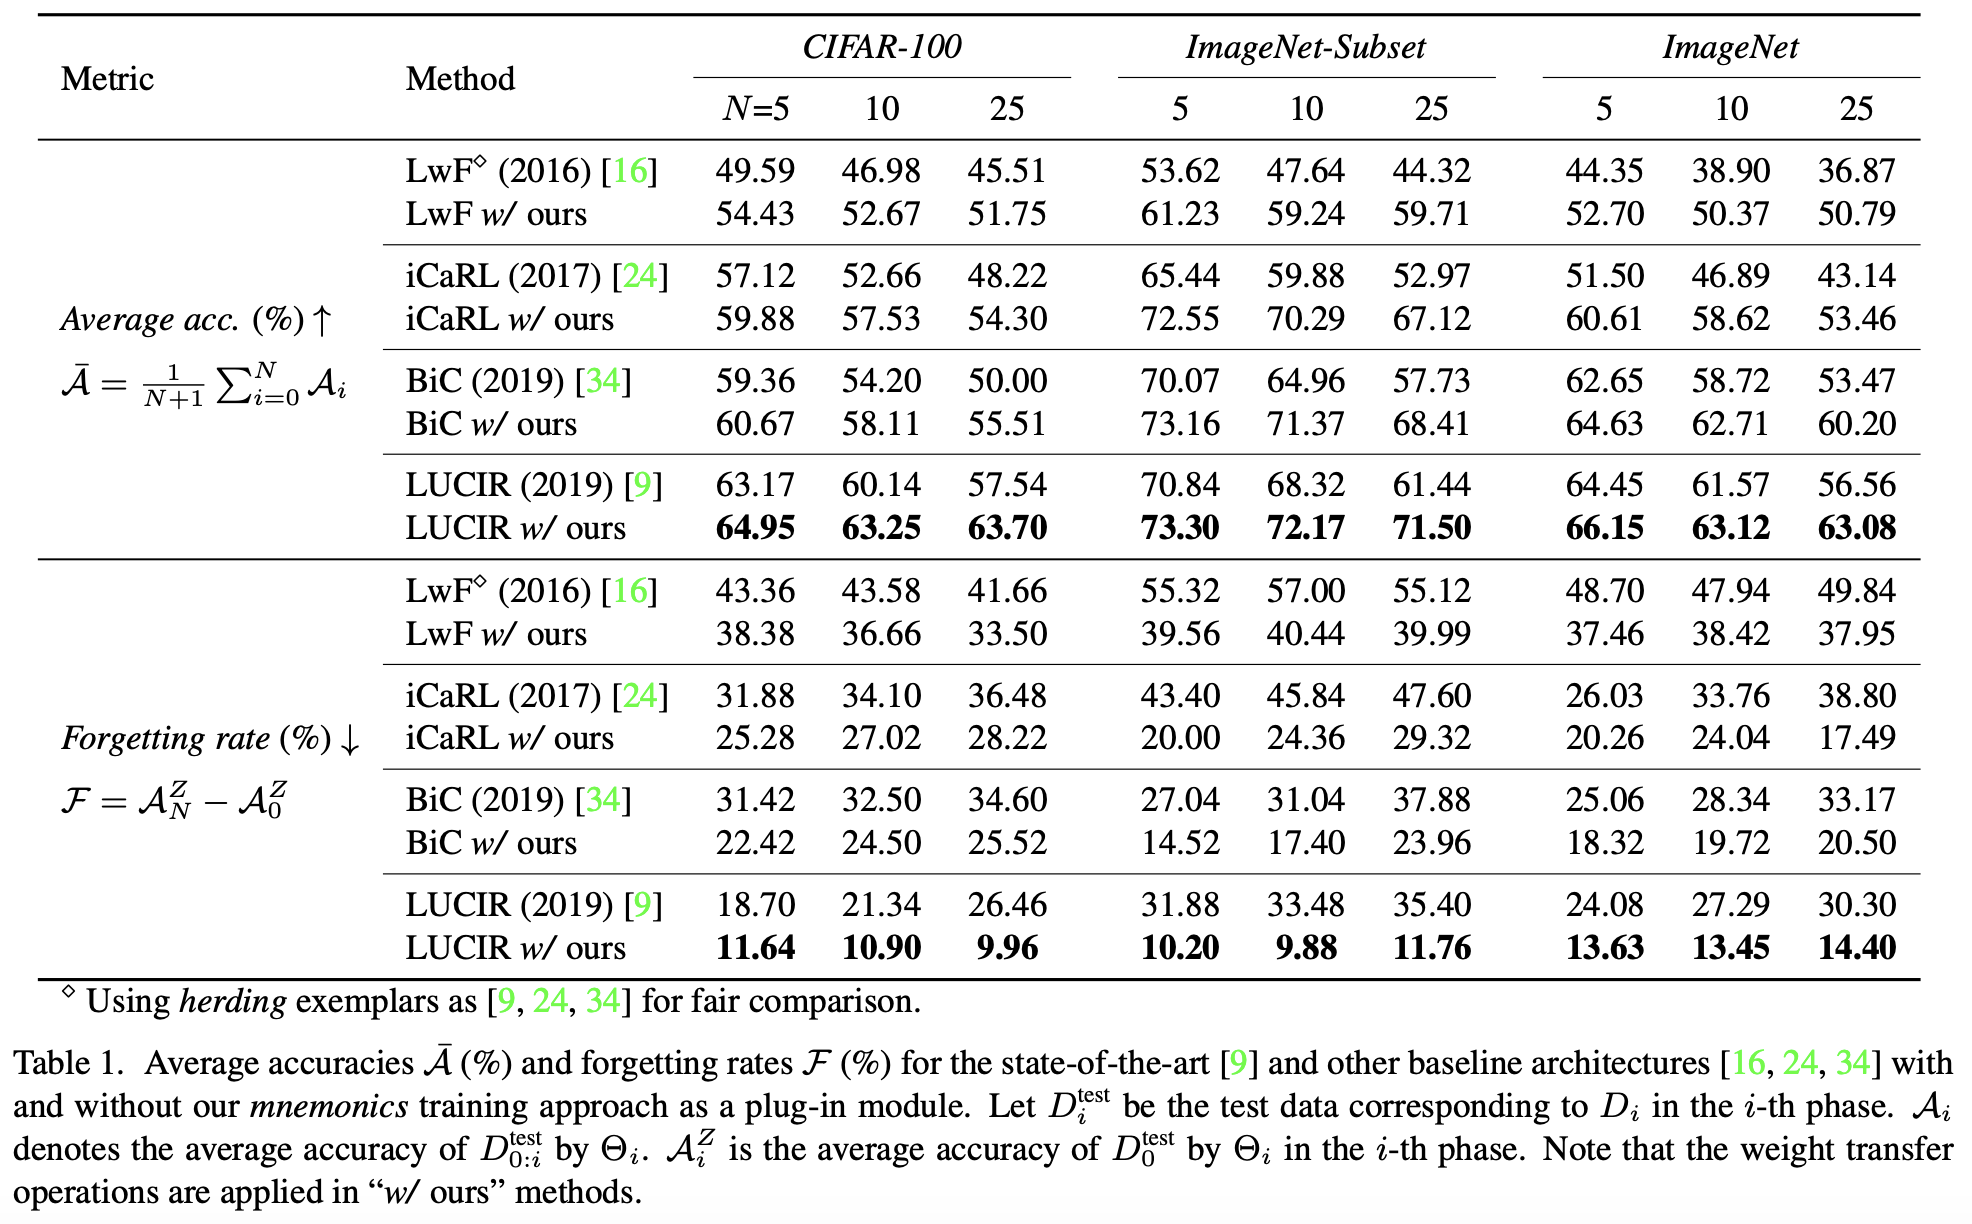
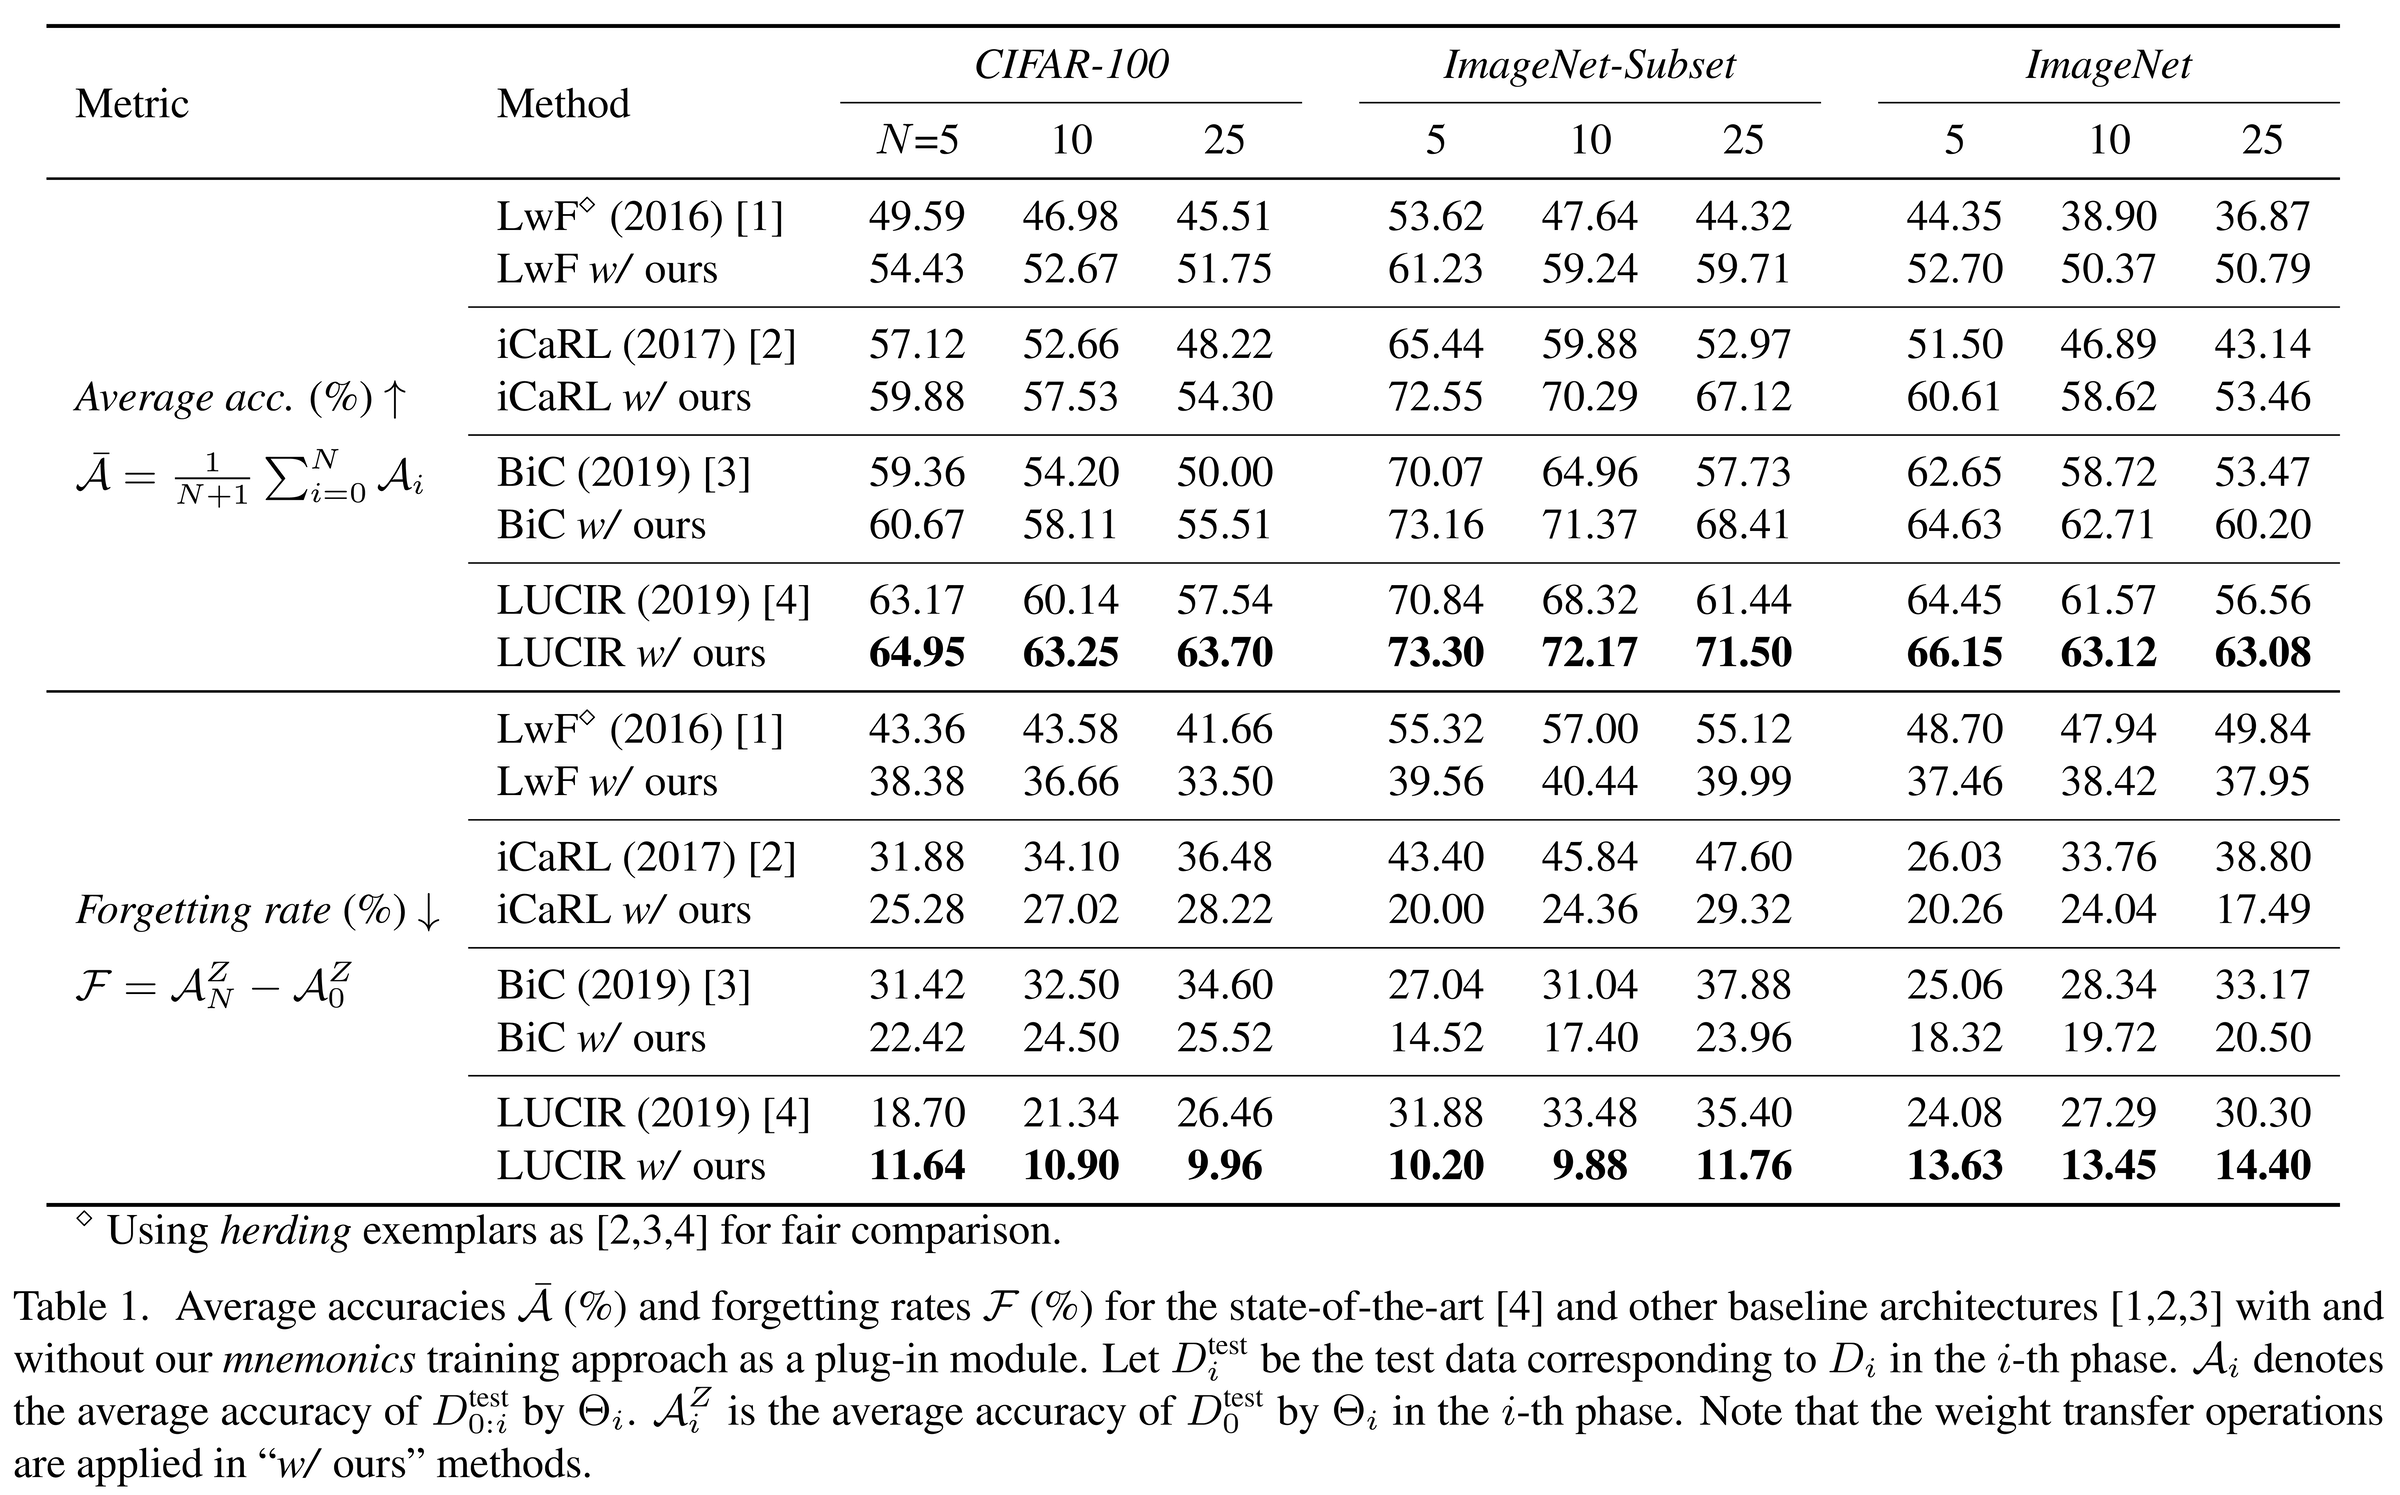
update website

Changed region(s): [[0.0, 0.0, 1.0, 0.9935]]

diff --git a/index.html b/index.html
@@ -19,6 +19,7 @@
     </head>
 
     <body data-spy="scroll" data-target=".navbar">
+
         <nav class="navbar navbar-default navbar-fixed-top">
             <div class="container">
                 <!-- Brand and toggle get grouped for better mobile display -->
@@ -64,18 +65,19 @@
       <h2 class="project-name" style="font-weight:normal" align="center"><a class=the_title style="color:#000000;">Mnemonics Training: Multi-Class Incremental Learning without Forgetting</a></h2>
       <h4 style="font-weight:normal" align="center"><a href="https://yyliu.net" target="_blank">Yaoyao Liu</a><sup>1</sup> &nbsp;  <a href="https://www.iti-tju.org/#/people/suyutingEnglish" target="_blank">Yuting Su</a><sup>2</sup> &nbsp;  <a href="https://www.iti-tju.org/#/people/liuananEnglish" target="_blank">An-An Liu</a><sup>2</sup> &nbsp;  <a href="https://www.mpi-inf.mpg.de/departments/computer-vision-and-multimodal-computing/people/bernt-schiele/" target="_blank">Bernt Schiele</a><sup>1</sup> &nbsp;  <a href="https://qianrusun.com/" target="_blank">Qianru Sun</a><sup>3</sup></h4>
       <h5 style="font-weight:normal;" align="center"><sup>1</sup><a href="https://www.mpi-inf.mpg.de/" target="_blank" style="color:#000000;">Max Planck Institute for Informatics</a> &nbsp; <sup>2</sup><a href="http://www.tju.edu.cn/english/index.htm" target="_blank" style="color:#000000;">Tianjin University</a> &nbsp; <sup>3</sup><a href="https://www.smu.edu.sg/" target="_blank" style="color:#000000;">Singapore Management University</a> &nbsp; <font color=#000000></font></h5>
-      <h5 style="font-weight:normal;" align="center"><a href="http://cvpr2020.thecvf.com/" target="_blank" style="color:#000000;"><I>2020 IEEE Conference on Computer Vision and Pattern Recognition</I></a></h5>
+      <h5 style="font-weight:normal;" align="center"><a href="http://cvpr2020.thecvf.com/" target="_blank" style="color:#000000;"><I>2020 IEEE/CVF Conference on Computer Vision and Pattern Recognition</I></a></h5>
[1 lines of base64/hex data omitted]
+
 
                 <h3>Abstract</h3>
 
-<p>Multi-Class Incremental Learning (MCIL) aims to learn new concepts by incrementally updating a model trained on previous concepts. However, there is an inherent trade-off to effectively learning new concepts without catastrophic forgetting of previous ones. To alleviate this issue, it has been proposed to keep around a few examples of the previous concepts but the effectiveness of this approach heavily depends on the representativeness of these examples. This paper proposes a novel and automatic framework we call mnemonics, where we parameterize exemplars and make them optimizable in an end-to-end manner. We train the framework through bilevel optimizations, i.e., model-level and exemplar-level. We conduct extensive experiments on three MCIL benchmarks, CIFAR-100, ImageNet-Subset and ImageNet, and show that using mnemonics exemplars can surpass the state-of-the-art by a large margin. Interestingly and quite intriguingly, the mnemonics exemplars tend to be on the boundaries between classes.</p>
+<p>Multi-Class Incremental Learning (MCIL) aims to learn new concepts by incrementally updating a model trained on previous concepts. However, there is an inherent trade-off to effectively learning new concepts without catastrophic forgetting of previous ones. To alleviate this issue, it has been proposed to keep around a few examples of the previous concepts but the effectiveness of this approach heavily depends on the representativeness of these examples. This paper proposes a novel and automatic framework we call <strong><em>mnemonics</em></strong>, where we parameterize exemplars and make them optimizable in an end-to-end manner. We train the framework through bilevel optimizations, i.e., model-level and exemplar-level. We conduct extensive experiments on three MCIL benchmarks, CIFAR-100, ImageNet-Subset and ImageNet, and show that using <strong><em>mnemonics</em></strong> exemplars can surpass the state-of-the-art by a large margin. Interestingly and quite intriguingly, the <strong><em>mnemonics</em></strong> exemplars tend to be on the boundaries between classes.</p>
 
 <h4 id="contributions">Contributions</h4>
 <ul>
-  <li>A novel mnemonics training framework that alternates the learning of exemplars and models in a global bilevel optimization program.</li>
+  <li>A novel <strong><em>mnemonics</em></strong> training framework that alternates the learning of exemplars and models in a global bilevel optimization program.</li>
   <li>A novel local bilevel optimization program that trains exemplars for new classes as well as adjusts exemplars of old classes in an end-to-end manner.</li>
-  <li>In-depth experiments, visualization and explanation of mnemonics exemplars in the feature space.</li>
+  <li>In-depth experiments, visualization and explanation of <strong><em>mnemonics</em></strong> exemplars in the feature space.</li>
 </ul>
 
 <h3 id="pipeline">Pipeline</h3>
@@ -105,12 +107,24 @@
 <p>Please cite our paper if it is helpful to your work:</p>
 
 <div class="highlighter-rouge"><div class="highlight"><pre class="highlight"><code>@inproceedings{liu2020mnemonics,
-author = {Liu, Yaoyao and Su, Yuting and Liu, An{-}An and Schiele, Bernt and Sun, Qianru},
-title = {Mnemonics Training: Multi-Class Incremental Learning without Forgetting},
-booktitle = {The IEEE Conference on Computer Vision and Pattern Recognition (CVPR)},
-year = {2020}
+author    = {Liu, Yaoyao and Su, Yuting and Liu, An{-}An and Schiele, Bernt and Sun, Qianru},
+title     = {Mnemonics Training: Multi-Class Incremental Learning without Forgetting},
+booktitle = {The IEEE/CVF Conference on Computer Vision and Pattern Recognition (CVPR)},
+pages     = {12245--12254},
+year      = {2020}
 }
 </code></pre></div></div>
+
+<h4 id="references">References</h4>
+
+<p>[1] Li, Zhizhong, and Derek Hoiem. "Learning without forgetting." <em>TPAMI</em> 2017.
+<br />
+[2] Rebuffi, Sylvestre-Alvise, et al. "icarl: Incremental classifier and representation learning." <em>CVPR</em> 2017.
+<br />
+[3] Wu, Yue, et al. "Large scale incremental learning." <em>CVPR</em> 2019.
+<br />
+[4] Hou, Saihui, et al. "Learning a unified classifier incrementally via rebalancing." <em>CVPR</em> 2019.
+</p>
 
 
 
